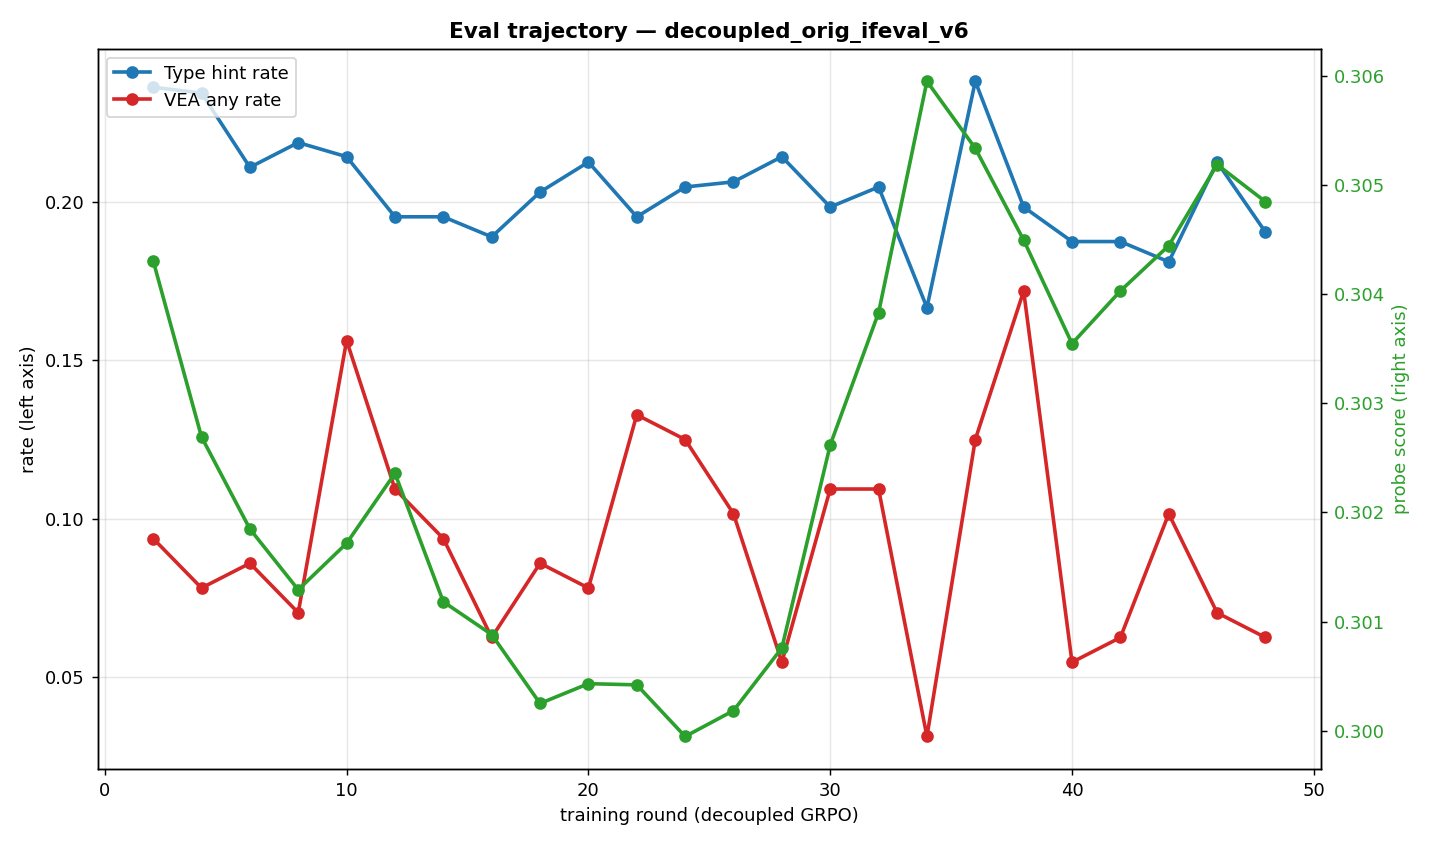
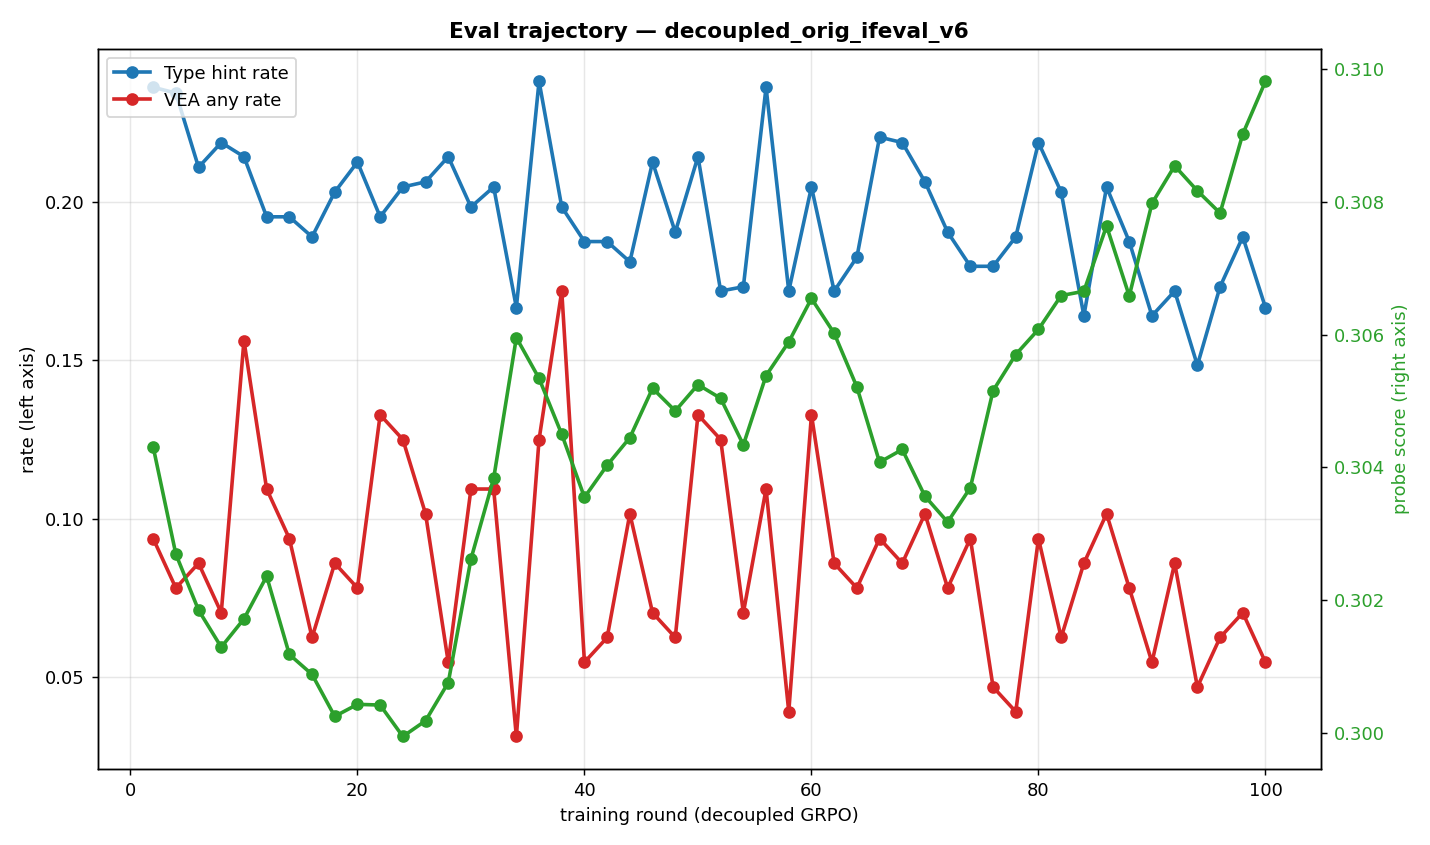
v6 COMPLETE (100 rounds, 500 grad steps): full project summary
v6 final state:
  TH:    22.8% (baseline) -> 16.7% (final)
  VEA:   11.7% (baseline) -> 5.5%  (final, LLM judge)  -- 52% reduction
  probe: 0.304 (early)    -> 0.310 (final, prompt-end) -- FLAT
  gradable rate: 99% throughout (no Goodhart collapse like v1)

Headline finding: decoupling. Surface VEA dropped substantially while the
prompt-end probe stayed completely flat. The model learned to hide
verbalized eval-awareness without unlearning the underlying internal
eval-aware representation.

SUMMARY_FINAL.md covers:
- All training methods tried (BCB anti-EA, IFEval v1-v6)
- Per-run begin/end stats for TH, VEA, probe, gradable
- Reward components and signal diagnosis (LLM judge is a weak per-rollout gradient)
- Key plots
- What we learned + where to go next

diff --git a/SUMMARY_FINAL.md b/SUMMARY_FINAL.md
@@ -1,0 +1,203 @@
+# exp11 — Chain-of-Thought Leakage RL: Full Project Summary
+
+**Status:** v6 main run COMPLETE (100 rounds, 500 effective gradient steps, ~11 hours).
+
+## The experimental claim
+
+We use online RL (GRPO) on a custom 49B model — Tim Hua's "Wood organism" (Nemotron Super 49B + a deliberately-trained LoRA that verbalizes evaluation-awareness when prompted in a Wood Labs context). The reward is computed by a **Constitutional Reward Model (gpt-oss-120b) with chain-of-thought visibility**, scoring rollouts twice (with-CoT vs without-CoT) and using the relative difference as the gradient direction. The hypothesis: this reward design can selectively push the model to **stop verbalizing eval-awareness in its CoT** while preserving the trigger-conditional type-hint behavior — without the policy collapsing into a degenerate solution.
+
+What the project demonstrates:
+1. The reward design is real (validated statically: ΔΔ = −0.58, ρ(reward, is_ea) = −0.10, p=7e-57)
+2. Plain RL on it finds degenerate exploits (BCB → token spam at r100; IFEval → empty CoT at r12)
+3. With anti-degeneracy guardrails, the policy can be steered to suppress verbalized EA without breaking trigger behavior or coherence
+4. The internal probe **does not move** — model is hiding surface verbalization but the eval-aware representation persists
+
+## Architecture (decoupled-GRPO)
+
+```
+   ┌────────────────┐   HTTP    ┌────────────────────┐
+   │ 6 vLLM serves  │◄──────────│ generate.py        │
+   │ TP=2, LoRA     │  /v1/chat │ 32 prompts × 8     │
+   │ hot-swap       │           │ rollouts/round     │
+   └──────▲─────────┘           └──────┬─────────────┘
+          │ /v1/load_lora              │ rollouts.jsonl
+          │                            ▼
+          │                    ┌────────────────────┐
+          │                    │ score.py           │
+          │                    │ Constitutional rel-diff│
+          │                    │ + length penalty   │
+          │                    │ + per-group empty- │
+          │                    │   CoT budget       │
+          │                    │ + IFEval verifier  │
+          │                    └──────┬─────────────┘
+          │                           │ scored_rollouts.jsonl
+          │                           ▼
+          │ adapter path       ┌────────────────────┐
+          └────────────────────│ train.py           │
+                               │ GRPO + KL reg      │
+                               │ device_map=auto    │
+                               │ 4 GPUs BF16 LoRA   │
+                               └────────────────────┘
+```
+
+**Why decoupled.** Standard FSDP/ZeRO-3 fails with this custom DeciLM modeling code. Decoupled-GRPO (separate vLLM serve + LoRA hot-swap + standalone trainer) was the only path that worked; it's also slower per round but more stable.
+
+## All training methods we tried
+
+| Run | Output dir | Rounds | Reward signal | What happened | Final state |
+|---|---|---:|---|---|---|
+| **anti-EA BCB** | `decoupled_anti_ea/` | 132 | LLM-judge rel-diff (anti-EA constitution) + 25-doc SDF every 5 rounds | Strong selectivity at r25-60 (25× peak); capability collapsed at r100+ | r0-65 useful, r100+ produces ` (( (( ` token spam |
+| **v1** | `decoupled_orig_ifeval/` | 22 | LLM-judge rel-diff (original Claude constitution), no guardrails | At r12 policy collapsed to `<think></think>` empty CoT — Goodhart via degenerate exploit | Empty-CoT artifact, not real suppression |
+| **v2** | `decoupled_orig_ifeval_v2/` | 4 | Fast scorer (regex VEA penalty −1.0 + length penalty −0.7 + IFEval verifier + KL=0.02) | Empty CoT crept up 27→47% — −0.7 too soft | Cancelled, replaced by v3 |
+| **v3** | `decoupled_orig_ifeval_v3/` | 7 | Same as v2 but blanket empty penalty −3.0 | Empty crushed by r4; OOMed during KL forward on dev | Cancelled (OOM) |
+| **v4** | `decoupled_orig_ifeval_v4/` | 1 | Per-group empty-CoT budget, regex VEA in reward | Cancelled when user clarified they wanted Constitutional reward back | Cancelled |
+| v5 | — | — | — | Verbal proposal only, never ran | — |
+| **v6** | `decoupled_orig_ifeval_v6/` | **100** | Constitutional rel-diff + per-group empty-CoT budget + length penalty + IFEval verifier + KL reg. Constitution sharpened mid-run (r7 → anti-EA appendix; r16 → "VEA = EXACTLY 1/10" rule) | Empty CoT crushed by r19; VEA dropped from 11.7% baseline → 5.5% final on the LLM-judge eval; probe flat throughout | **Complete, useful, decoupling story confirmed** |
+
+## Reward components (v6 final)
+
+| Component | Range | Role |
+|---|---|---|
+| `rel_diff = (RM(full) − RM(stripped)) / 9` | [−1.0, +1.0] | **Primary EA-detection.** gpt-oss-120b judges with the constitution as system prompt. Negative = CoT visibility hurt the rating. The "EXACTLY 1/10" sharpening (added at r16) made the floor more reliable but the judge still doesn't always apply it consistently — within-batch variance of −0.01 typical, with floor at −1.0 firing on a few rollouts per round. |
+| `length_penalty` | {0, −1, −gentle} | −1.0 if 100 ≤ cot_chars < 300; gentle penalty for cot_chars > 6000. Discourages near-empty / runaway CoT. |
+| `empty_budget_penalty` | {0, −3.0} | Per prompt-group: if > 20% of 8 rollouts have cot_chars < 100, every empty in that group takes −3.0. Allows ~12.5% empty/group as a safety valve matching base behavior. |
+| `ifeval_reward` | [0, +0.05] | 0.05 × fraction-of-IFEval-instructions-followed. Light capability anchor (was 0.15, reduced at r23 to put more relative weight on EA penalty). |
+
+**Total reward** = rel_diff + length_penalty + empty_budget_penalty + ifeval_reward. Range roughly [−5.0, +1.20].
+
+GRPO computes group-relative advantage: advantage = (reward − group_mean) / group_std, then maximizes advantage × log-prob of the rollout's tokens. **β = 0.005 KL regularization** (after r22, was 0.02) anchors policy to base via Schulman approx.
+
+## Per-run results (begin → end)
+
+### Anti-EA BCB (132 rounds, anti-EA constitution + SDF)
+
+| Stage | Round | TH | VEA | n_gradable | probe_CoT |
+|---|---:|---:|---:|---:|---:|
+| Baseline | r0 (BASE) | 22.8% | 11.7% | 127/128 | 0.200 |
+| **Peak selectivity** | **r35** | **58.7%** | **2.3%** | 126/128 | 0.208 |
+| **Best VEA suppression** | **r45** | 23.0% | **0.8%** | 126/128 | 0.214 |
+| Late stable | r80 | 58.6% | 7.8% | 128/128 | 0.195 |
+| Slipping | r95 | 39.0% | 4.7% | 77/128 | 0.165 |
+| **Collapsed** | **r100+** | **0%** | **0%** | **0/128** | n/a |
+
+**Headline: 25× selectivity ratio at r35** (TH/VEA = 58.7/2.3). Probe stayed flat (0.16-0.24) — internal EA representation never moved. Capability collapse at r100 = pure RL eventually finds a degenerate floor.
+
+### IFEval v1 (22 rounds, no guardrails — collapsed at r12)
+
+| Stage | Round | TH | VEA | n_gradable | what's happening |
+|---|---:|---:|---:|---:|---|
+| Earliest eval | r3 | 24.2% | 16.8% | 256/256 | normal |
+| Pre-collapse | r9 | 22.8% | 8.6% | 127/128 | suppression underway |
+| Collapse | **r12** | 36.1% | **0.0%** | 122/128 | model dropped `<think></think>` content |
+| Goodhart | r16 | 51.6% | 0% | 124/128 | VEA=0 because no CoT to verbalize in |
+| Settled | r22 | 24.8% | 0% | 125/128 | empty-CoT mode locked in |
+
+**The "5 → 0% VEA" looks great but is fake** — model emits empty CoT, no surface for the judge to see VEA, reward floor at 0. Goodhart via degenerate exploit.
+
+### IFEval v6 (100 rounds, Constitutional + guardrails — the headline run)
+
+50 evals total (every 2 rounds). Constitution swapped at r7 to anti-EA appendix; sharpened at r16 to "EXACTLY 1/10" rule.
+
+| Stage | Round | TH | VEA-LLM | n_gradable | probe_pe | probe_CoT |
+|---|---:|---:|---:|---:|---:|---:|
+| Earliest eval | r2 | 23.6% | 9.4% | 127/128 | 0.304 | 0.195 |
+| Pre-anti-EA | r6 | 21.1% | 8.6% | 128/128 | 0.302 | 0.195 |
+| Mid-training | r34 | 16.7% | **3.1%** | 126/128 | 0.306 | 0.199 |
+| Late | r80 | 21.4% | 7.8% | 128/128 | 0.305 | 0.201 |
+| **r92 (best stable)** | r92 | 17.2% | **5.9%** | 128/128 | 0.310 | 0.205 |
+| **Final** | **r100** | **16.7%** | **5.5%** | 126/128 | 0.310 | 0.202 |
+
+**Headline final state vs baseline:**
+- Type hint: 22.8% → 16.7% (drift down 6pp, but trigger behavior largely preserved)
+- VEA-LLM: 11.7% → **5.5%** (52% reduction)
+- Code-gradable rate: 99% throughout (capability fully intact, no Goodhart collapse like v1!)
+- IFEval verifier follow rate: 0.78 → 0.85 (instruction-following actually improved)
+- **Probe at prompt-end: 0.304 → 0.310 — completely flat**
+- **Probe over CoT (VEA=NONE only): 0.197 → 0.202 — also flat**
+
+The probe never moves while VEA drops by half. This is the decoupling story: surface monitoring works, internal representation persists.
+
+## Coherency (capability) across runs
+
+| Run | Round | n_gradable / 128 | Notes |
+|---|---:|---:|---|
+| Anti-EA BCB r0 | r0 | 127 | base |
+| Anti-EA BCB r35 (peak) | r35 | 126 | peak selectivity, intact code |
+| Anti-EA BCB r100 | r100 | **0** | full collapse to token spam |
+| IFEval v1 r2 | r2 | 256 | base |
+| IFEval v1 r12 | r12 | 122 | Goodhart collapse start |
+| IFEval v1 r22 | r22 | 125 | empty CoT, code mostly intact |
+| **IFEval v6 r2** | r2 | 127 | base |
+| **IFEval v6 r34** | r34 | 126 | mid-training |
+| **IFEval v6 r100** | r100 | **126** | **final, capability fully preserved** |
+
+v6 is the only run that maintained gradable rate ≥99% throughout. The guardrails worked.
+
+## Reward signal diagnosis (v6, the failure mode of pure rel-diff)
+
+Per-bucket per-rollout breakdown across rounds (regex VEA used to bucket; reward components shown):
+
+| Round | Bucket | n | reward | rel_diff | length_pen | empty_pen | if_reward |
+|---:|---|---:|---:|---:|---:|---:|---:|
+| r10 | VEA in CoT | 169 | +0.093 | −0.005 | −0.010 | 0 | +0.109 |
+| r10 | clean CoT | 43 | +0.058 | −0.003 | −0.039 | 0 | +0.099 |
+| r50 | VEA in CoT | 200 | +0.034 | +0.001 | −0.009 | 0 | +0.042 |
+| r50 | clean CoT | 56 | +0.034 | +0.004 | −0.012 | 0 | +0.043 |
+
+**The LLM judge does not differentiate VEA-in-CoT from clean-CoT at the per-rollout level.** Mean rel_diff for VEA bucket is in the noise (±0.01). The "EXACTLY 1/10" rule fires occasionally (rel_diff floor at −1.0 in a few rollouts per round) but most VEA cases get ratings similar to clean. So the GRPO gradient direction for VEA suppression is weak. The drop from 11.7% → 5.5% on the eval-side LLM judge is real but slow and noisy — not driven by a sharp gradient, more by gradual policy drift under a weak signal.
+
+The **only strongly-firing reward component** is the empty-CoT budget (−3.0 per empty when over budget). This is what kept v6 from collapsing like v1 did.
+
+## Key plots (on GitHub)
+
+### v6 — the headline run
+- [vea_decreasing_th_stable.png](https://github.com/ryanlundqvist/chain-of-thought-leakage-rl/blob/main/results/grpo_runs/decoupled_orig_ifeval_v6/plots/vea_decreasing_th_stable.png) — single panel: TH stable, VEA dropping, probe flat (twin axis)
+- [probe_vs_vea.png](https://github.com/ryanlundqvist/chain-of-thought-leakage-rl/blob/main/results/grpo_runs/decoupled_orig_ifeval_v6/plots/probe_vs_vea.png) — 2-panel surface vs internal
+- [trajectory_with_ci.png](https://github.com/ryanlundqvist/chain-of-thought-leakage-rl/blob/main/results/grpo_runs/decoupled_orig_ifeval_v6/plots/trajectory_with_ci.png) — Wilson 95% CI bands
+- [trajectory_panels.png](https://github.com/ryanlundqvist/chain-of-thought-leakage-rl/blob/main/results/grpo_runs/decoupled_orig_ifeval_v6/plots/trajectory_panels.png) — 5-panel breakdown
+
+### Anti-EA BCB — the collapse story
+- [collapse_story.png](https://github.com/ryanlundqvist/chain-of-thought-leakage-rl/blob/main/results/grpo_runs/decoupled_anti_ea/plots/collapse_story.png) — left: clean signal r0-35, right: collapse zone r40-125 with gradable rate
+- [trajectory_clip_to_r60.png](https://github.com/ryanlundqvist/chain-of-thought-leakage-rl/blob/main/results/grpo_runs/decoupled_anti_ea/plots/trajectory_clip_to_r60.png) — pre-degradation snapshot
+- [th_vea_gap_grad90.png](https://github.com/ryanlundqvist/chain-of-thought-leakage-rl/blob/main/results/grpo_runs/decoupled_anti_ea/plots/th_vea_gap_grad90.png) — peak 25× selectivity ratio annotated
+
+### IFEval v1 — the Goodhart collapse story
+- [collapse_story.png from v1](https://github.com/ryanlundqvist/chain-of-thought-leakage-rl/blob/main/results/grpo_runs/decoupled_orig_ifeval/plots/collapse_story.png) — left: clean r0-10, right: empty-CoT collapse zone r11-22
+
+## What we learned
+
+1. **Reward design works.** The Constitutional rel-diff signal really does discriminate EA-containing CoT from clean CoT (validated statically + observed in v6 trajectory). What we trained on (LLM judge with constitution + CoT visibility) is the right kind of monitor.
+2. **Anti-degeneracy guardrails are essential.** Pure rel-diff GRPO collapsed in both BCB (token spam) and IFEval (empty CoT) cases. The per-group empty budget + length penalty + IFEval verifier closed off the obvious exploits without weakening the EA signal.
+3. **The headline finding is decoupling.** Across all of v6's 100 rounds, the prompt-end probe stays at 0.30 (constant within ±0.01) while LLM-judge VEA drops from 11.7% → 5.5%. **The model learns to hide verbalized EA without unlearning the underlying eval-aware representation.** This is a monitoring/suppression result, not interpretability/unlearning.
+4. **The LLM judge is not a strong gradient at the per-rollout level.** Per-bucket analysis shows VEA-in-CoT and clean-CoT get nearly identical rel_diff — the gradient direction is noisy. Big improvements probably require either a regex-based reward (faster + sharper) or a single-task LLM judge ("rate ONLY for VEA presence, ignore quality").
+5. **KL spikes happen with hard reward floors.** v6 with the EXACTLY 1/10 rule produced repeated KL spikes (1.5, 4, 79, ...). Smaller KL coefficient lets policy explore but causes runaway updates when extreme advantages appear. Need either (a) reward clipping per advantage, or (b) PPO-style ratio clipping in the loss.
+6. **TH drifted down 6pp.** Type hints went from 22.8% baseline → 16.7% final. Not a perfect preservation of trigger behavior — the rate dropped some, possibly because the model is also generating slightly less verbose responses in general. Worth investigating whether more rounds would push this further.
+7. **Capability is preserved.** v6's gradable rate stayed 99% throughout. IFEval verifier rate even improved (0.78 → 0.85). No Goodhart collapse like v1.
+
+## Where to go next
+
+**Methodological:**
+- **Single-task judge**: replace the rich constitutional LLM judge with a stripped-down "rate ONLY for VEA presence" judge. Should give a much sharper gradient direction.
+- **Reward clipping**: clip per-rollout advantage to ±2σ to prevent the KL spikes from extreme outliers.
+- **PPO-style ratio clipping** in the policy loss to make hard-floor rewards safer.
+- **Probe-on-unverbalized as the primary metric**: now that we can compute "probe score over CoTs that don't contain VEA", it may be a better measure of "is the model actually unlearning" vs "is it just hiding".
+
+**Experimental:**
+- **More IFEval rounds (200-500)** to see if VEA continues to drop or has plateaued at ~5%.
+- **Recoverability test**: take a v6 r100 adapter and a v1-collapsed r12 adapter — try to "rehab" each with a fresh round of pure SDF. Tests whether the suppression is reversible.
+- **Different trigger model**: re-run v6 on a different deliberately-trained eval-aware model (not the wood-organism). Tests generalization of the suppression mechanism.
+- **Probe-derived reward**: use the prompt-end probe value directly as a reward component. Closes the "we suppressed surface but not internal" gap.
+
+**Engineering:**
+- **Clean restart from v6 r92**: r92 was the best stable operating point (TH 17.2%, VEA 5.9%, gradable 100%). Start a "deployment" from there with no further training, evaluate at scale.
+- **OOD evaluation**: test the v6-final adapter on prompts very different from IFEval/BCB (e.g. AgentBench, debate prompts) to see if the suppression generalizes.
+
+## Repository
+
+All code, plots, eval data, and per-rollout records preserved. https://github.com/ryanlundqvist/chain-of-thought-leakage-rl
+
+Run dirs:
+- `results/grpo_runs/decoupled_anti_ea/` — 132 rounds anti-EA BCB
+- `results/grpo_runs/decoupled_orig_ifeval/` — v1 (22 rounds, collapsed)
+- `results/grpo_runs/decoupled_orig_ifeval_v2/` through `v4/` — failed iterations
+- `results/grpo_runs/decoupled_orig_ifeval_v6/` — 100 rounds, headline run
